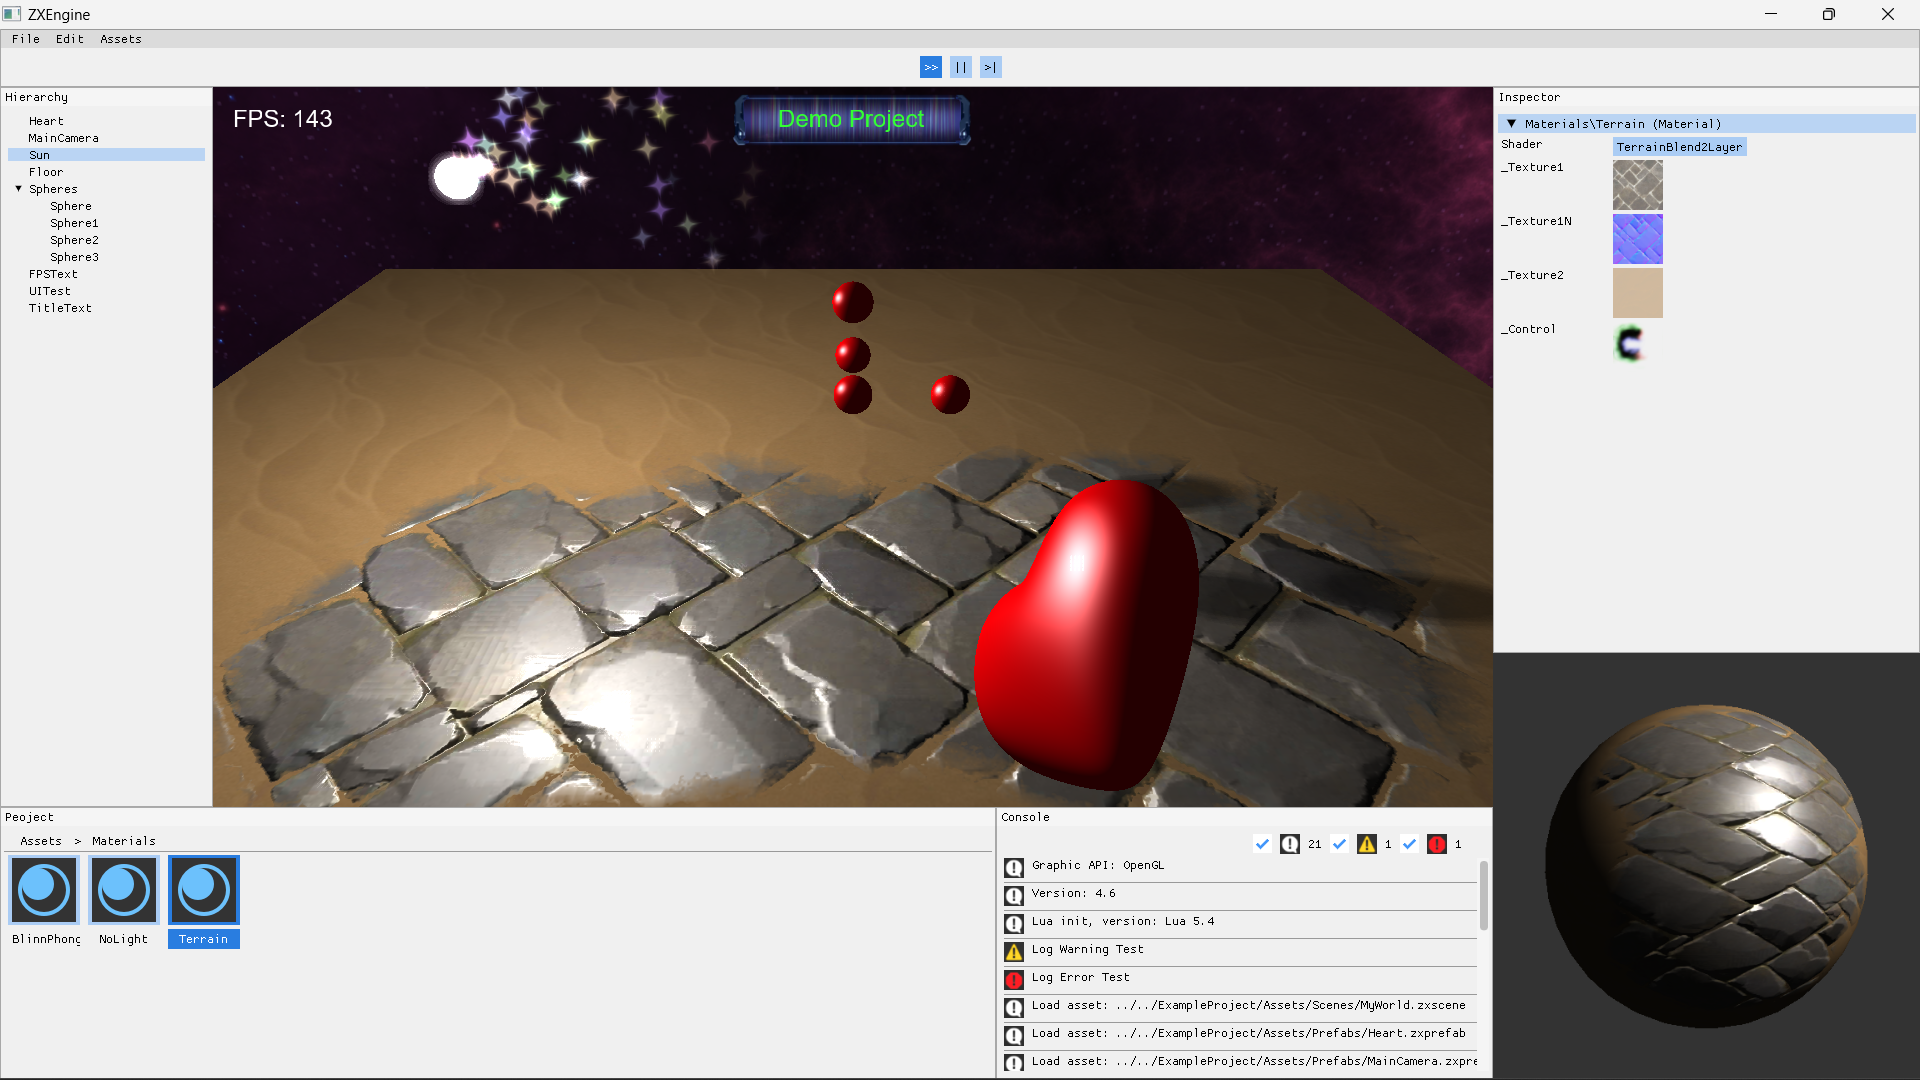
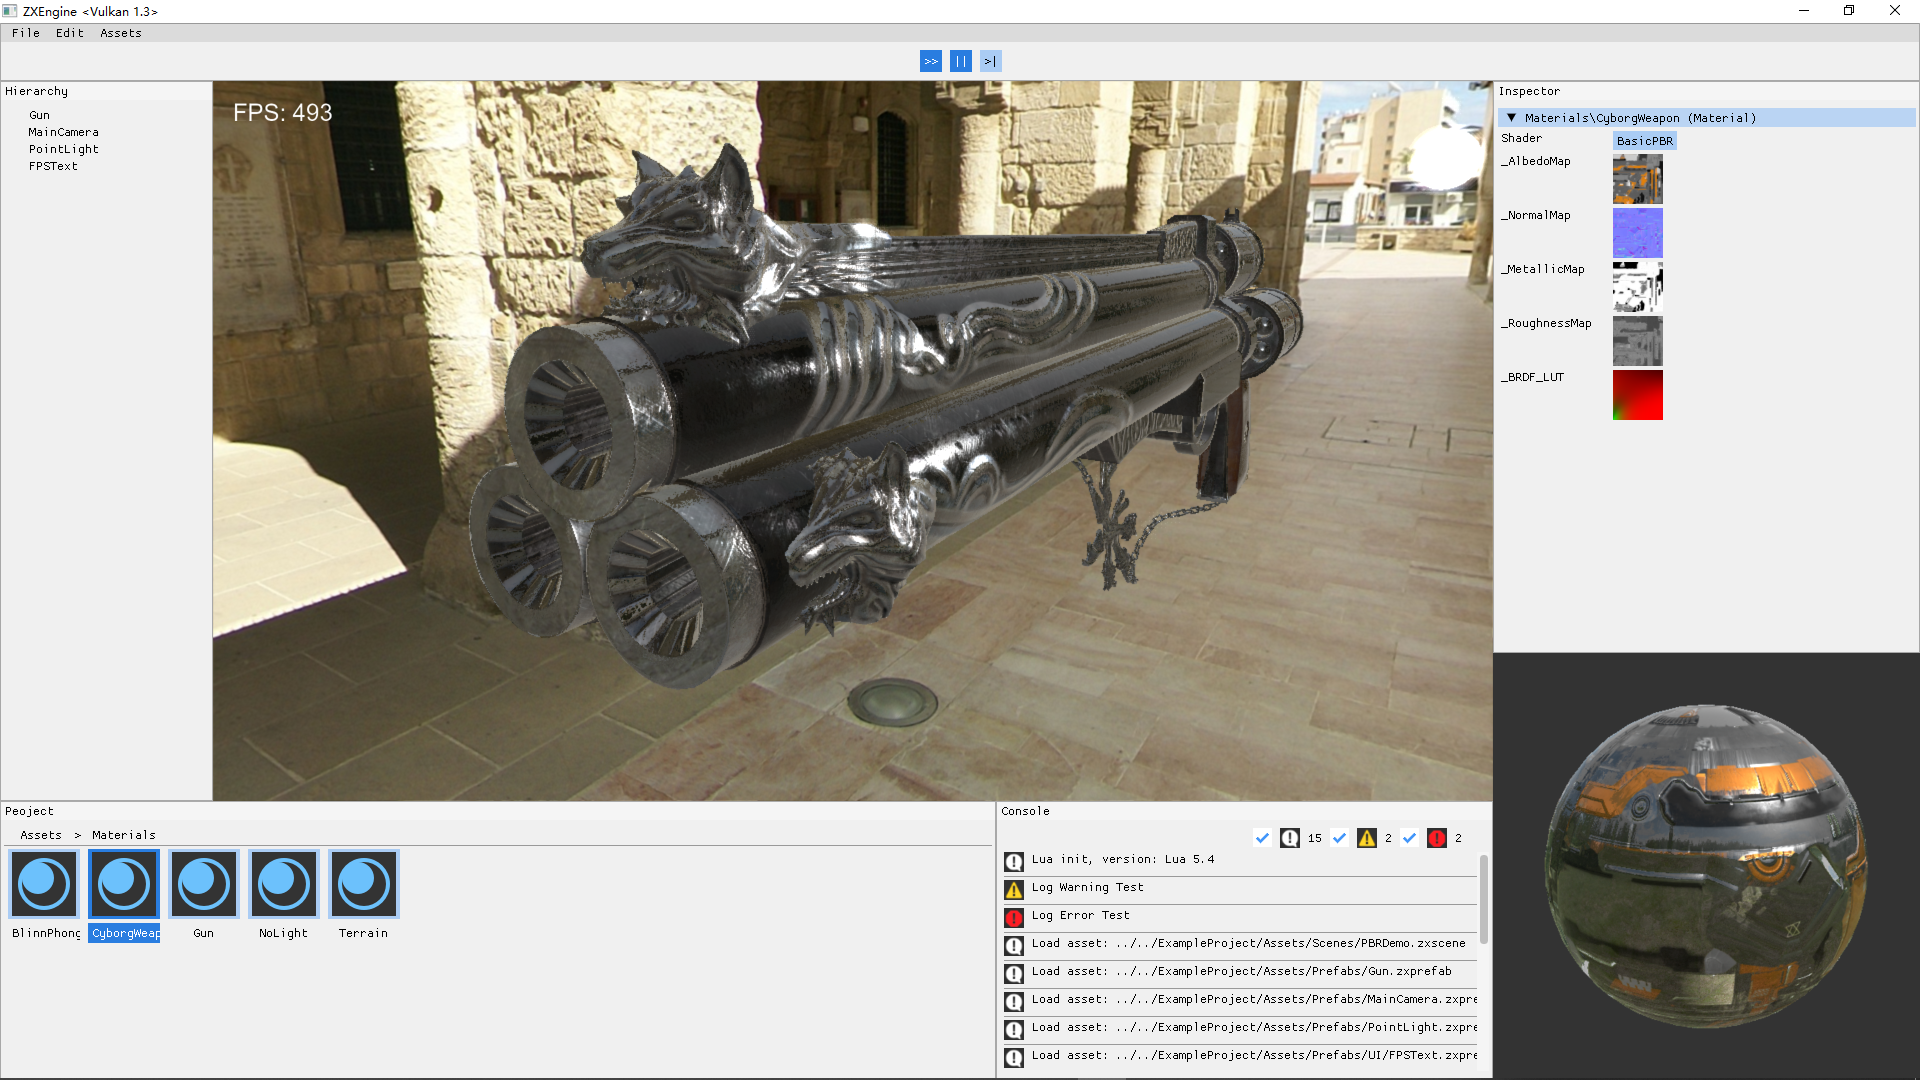
修改ReadMe

diff --git a/README.md b/README.md
@@ -1,20 +1,32 @@
 # ZXEngine
 
-这个项目是我个人为了学习游戏引擎技术创建的，目前同时支持DirectX 12，Vulkan和OpenGL。
+这个项目是我个人为了学习游戏引擎技术创建的，目前同时支持DirectX 12，Vulkan和OpenGL。并且支持光线追踪渲染管线(基于Vulkan，暂未实现基于DirectX12的光线追踪)。
 
-I created this project to learn and practice game engine technology, It now supports DirectX 12, Vulkan and OpenGL.
+I created this project to learn and practice game engine technology, It now supports DirectX 12, Vulkan and OpenGL.And it supports ray tracing rendering (only based on Vulkan for now, not support DXR).
 
-引擎本身用C++开发，GamePlay层使用Lua开发，引擎层封装部分C++接口给GamePlay层的Lua调用。使用方式类似Unity的XLua，不过目前已封装的接口还比较少。可以通过一个GameLogic组件把Lua代码绑定到GameObject上，接收所挂载对象上来自引擎的Start和Update调用，并通过self访问GameObject对象(具体示例看后面)。
+截图展示(介绍后面有更多展示):
 
-The engine is developed with C++, the GamePlay layer is developed with Lua, and the engine encapsulates part of the C++ interface to the Lua call of the GamePlay layer. The usage is similar to Unity's XLua, but there are still relatively few encapsulated interfaces. You can bind the Lua code to the GameObject through a GameLogic component, receive Start and Update calls from the engine on the mounted object, and access the GameObject object through self (see later for specific examples).
+Screenshot display (more display later in the introduction):
 
-本引擎使用自创的zxshader格式来编写shader代码。因为是跨API引擎，而各API之间的shader语法有差异，所以为了不用给每个图形API都写一次shader，不得不自己定义一个格式来写shader。编写好zxshader后，在DirectX 12和OpenGL下直接运行即可。在Vulkan下需要先点击引擎菜单栏里的“Assets/Compile All Shader for Vulkan”按钮，将zxshader预编译后才可以运行。
+![](https://github.com/AshenvaleZX/ZXEngine/blob/fd5c2450224b8981463fd16798026d5679b49c59/Documents/Images/Engine%20Show%200.png)
 
-This engine uses the self-created zxshader format to write shader code. Because it is a cross-API engine, and the shader syntax between APIs is different, so in order not to write a shader for each graphics API, I have to define a format to write the shader. After writing zxshader, it can be run directly under DirectX 12 and OpenGL. Under Vulkan, you need to click the "Assets/Compile All Shader for Vulkan" button in the engine menu bar to precompile zxshader before it can run.
+------
+
+## 引擎简介 (Engine Introduction)
+
+本引擎使用自创的zxshader语言来编写shader，同时支持DirectX 12，Vulkan和OpenGL。
+
+This engine uses the self-created zxshader language to write shaders, and supports DirectX 12, Vulkan and OpenGL at the same time.
+
+引擎本身用C++开发，GamePlay层使用Lua开发，引擎层封装部分C++接口给GamePlay层的Lua调用。使用方式类似Unity的XLua，通过一个GameLogic组件把Lua代码绑定到GameObject上，接收所挂载对象上来自引擎的Start和Update调用，并通过self访问GameObject对象(具体示例看后面)。
+
+The engine is developed with C++, the GamePlay layer is developed with Lua, and the engine encapsulates part of the C++ interface to the Lua call of the GamePlay layer. The usage is similar to Unity's XLua, you can bind the Lua code to the GameObject through a GameLogic component, receive Start and Update calls from the engine on the mounted object, and access the GameObject object through self (see later for specific examples).
 
 项目目前还比较简单，不过完成了引擎所需的基本的场景，预制体，材质，shader文件系统。有一个类Unity的引擎编辑器页面。
 
 The project is still relatively simple, but the basic scenes, prefabs, materials, and shader file systems have been completed. There is a Unity-like engine editor.
+
+## 细节图片展示 (Detailed picture display)
 
 下面是一些图片展示，引擎页面如图，和Unity编辑器类似。上面是主菜单栏，中间是游戏画面窗口，左边是展示场景中GameObject的Hierarchy面板，下面左边是展示当前打开项目的Assets文件目录的Project面板，中间是展示日志的Console面板，右边是展示当前选中对象详细信息的Inspector面板。
 
@@ -30,11 +42,15 @@ The Sun object in the scene is currently selected, and the Inspector panel displ
 
 Click the start button on the main menu bar, and the game starts to run. At this time, you can see the objects in the scene move, and the particle system starts to work. At this point, a material is selected, and the Inspectors panel starts to display material information and material balls.
 
+接下来展示的是一个基于PBR+IBL场景渲染，同时展示了点击材质文件后Inspector面板展示的材质信息和材质预览。
+
+Next picture is a scene rendering based on PBR+IBL, and also shows the material information and material preview displayed on the Inspector panel after clicking the material file.
+
 ![](https://github.com/AshenvaleZX/ZXEngine/blob/fd5c2450224b8981463fd16798026d5679b49c59/Documents/Images/Engine%20Show%202.png)
 
-再选中一个模型，Inspector面板就展示模型信息和模型预览。
+然后通过双击场景文件，切换到一个使用光线追踪渲染管线渲染的场景。同时展示了点击模型文件后Inspector面板展示的模型信息和模型预览。
 
-Then select a model, and the Inspector panel will display model information and model preview.
+Then switch to a scene rendered with the ray tracing pipeline by double-clicking on the scene file. At the same time, it shows the model information and model preview displayed on the Inspector panel after clicking the model file.
 
 ![](https://github.com/AshenvaleZX/ZXEngine/blob/fd5c2450224b8981463fd16798026d5679b49c59/Documents/Images/Engine%20Show%203.png)
 
@@ -91,17 +107,19 @@ end
 return ObjectMove
 ```
 
-写一些碎碎念，当是记录一下心路历程吧：
+### 注意事项 (Precautions)
 
-Some mumbles:
+目前zxshader编写好后，在DirectX 12和OpenGL下直接运行即可。但是在Vulkan下需要先点击引擎菜单栏里的“Assets/Compile All Shader for Vulkan”按钮，将zxshader预编译后才可以运行。
+
+### 一些废话 (Some mumbles)
 
 其实工程在2020年5月就创建了，但是最初其实只是想把2020年初学习OpenGL写的代码保存到GitHub上而已。当时写的代码也只是C语言风格的面向过程式编程，一个1000多行的渲染demo。随后花了1年多时间把《Real-Time Rendering 4th》看了，这期间光看书没再实际写东西了（因为这书实在是太偏理论了，没什么可以立刻实践的东西）。
 
 In fact, the project was created in May 2020, but at first I just wanted to save the code I wrote when I learned OpenGL in early 2020 to GitHub. The code I wrote at that time was only procedure oriented programming in C language style, a rendering demo with less than 2000 lines. Then I spent more than a year reading "Real-Time Rendering 4th". During this period, I just read the book and didn't actually write anything (because this book is too theoretical, and there is nothing that can be practiced immediately).
 
-其实当时那个1000多行的demo写完我还想继续加点东西上去，但是感觉加不动了，面向过程的代码实在是难扩展。就一直想把这个demo改成一个正式一点的，有渲染框架的工程，但是不知道从何改起，就一直没动，先看书去了。书看完了还是不知道怎么开始，就沉寂了几个月。最后于2022年8月我开始正式搭建这个工程，准备开发成一个自己的简单游戏引擎。其实我当时应该建一个新的GitHub仓库的，而不是用这个学习OpenGL的仓库。但是当时对C++工程还很陌生，感觉各种环境配置和库链接太麻烦了，就偷懒直接用这个已经搭好的OpenGL开发环境开始搭建引擎了。所以之前写的demo代码还遗留在这里面的。
+其实当时那个1000多行的demo写完我还想继续加点东西上去，但是感觉加不动了，面向过程的代码实在是难扩展。就一直想把这个demo改成一个正式一点的，有渲染框架的工程，但是不知道从何改起，就一直没动，先看书去了。书看完了还是不知道怎么开始，就沉寂了几个月。最后等到了2022年我才开始正式搭建这个工程，准备开发成一个自己的简单游戏引擎。其实我当时应该建一个新的GitHub仓库的，而不是用这个学习OpenGL的仓库。但是当时对C++工程还很陌生，感觉各种环境配置和库链接太麻烦了，就偷懒直接用这个已经搭好的OpenGL开发环境开始搭建引擎了。所以之前写的demo代码还遗留在这里面的。
 
-In fact, after the demo was written, I wanted to continue to add something, but I felt that it couldn't be done, because the procedure oriented code was really difficult to expand. I have always wanted to make this demo a more formal project with a rendering framework, but I don't know where to start, so I haven't moved, and I read the book first. After reading the book, I still didn't know how to start, so I fell silent for several months. Finally, in August 2022, I started to build this project, preparing to develop a simple game engine of my own. In fact, I should have built a new GitHub repository instead of using this repository for learning OpenGL. But at that time, I was still very unfamiliar with C++ projects. I felt that various environment configurations and library links were too troublesome, so I was slack off and started building the engine directly with this already established OpenGL development environment. So the demo code written before is still left here.
+In fact, after the demo was written, I wanted to continue to add something, but I felt that it couldn't be done, because the procedure oriented code was really difficult to expand. I have always wanted to make this demo a more formal project with a rendering framework, but I don't know where to start, so I haven't moved, and I read the book first. After reading the book, I still didn't know how to start, so I fell silent for several months. Finally, in 2022, I started to build this project, preparing to develop a simple game engine of my own. In fact, I should have built a new GitHub repository instead of using this repository for learning OpenGL. But at that time, I was still very unfamiliar with C++ projects. I felt that various environment configurations and library links were too troublesome, so I was slack off and started building the engine directly with this already established OpenGL development environment. So the demo code written before is still left here.
 
 这个工程我准备用自己工作之余的时间长期更新下去，慢慢完善，添加更高级的特性。也把这个工程当作自己一个学习技术的平台，有什么感兴趣的技术可以在自己这个工程里实验一下。也希望同样对引擎技术感兴趣的人可以一起分享。因为我之前沉寂了几个月迟迟没有开始，就是因为不知道从何开始。我想找一个简单的参考项目，但是找不到。要么就是UE5这种过于庞大和成熟的引擎，要么就是一些很老的比如Ogre这样的引擎，反正我没有找到一个合适的项目让我学习。我这个项目有很多实现是自己瞎想的，还比较简单，换句话说也比较简陋。所以有大佬看到感觉写的不好的地方，欢迎提出建议。可以发邮件给我，ashenvalezx@gmail.com
 
